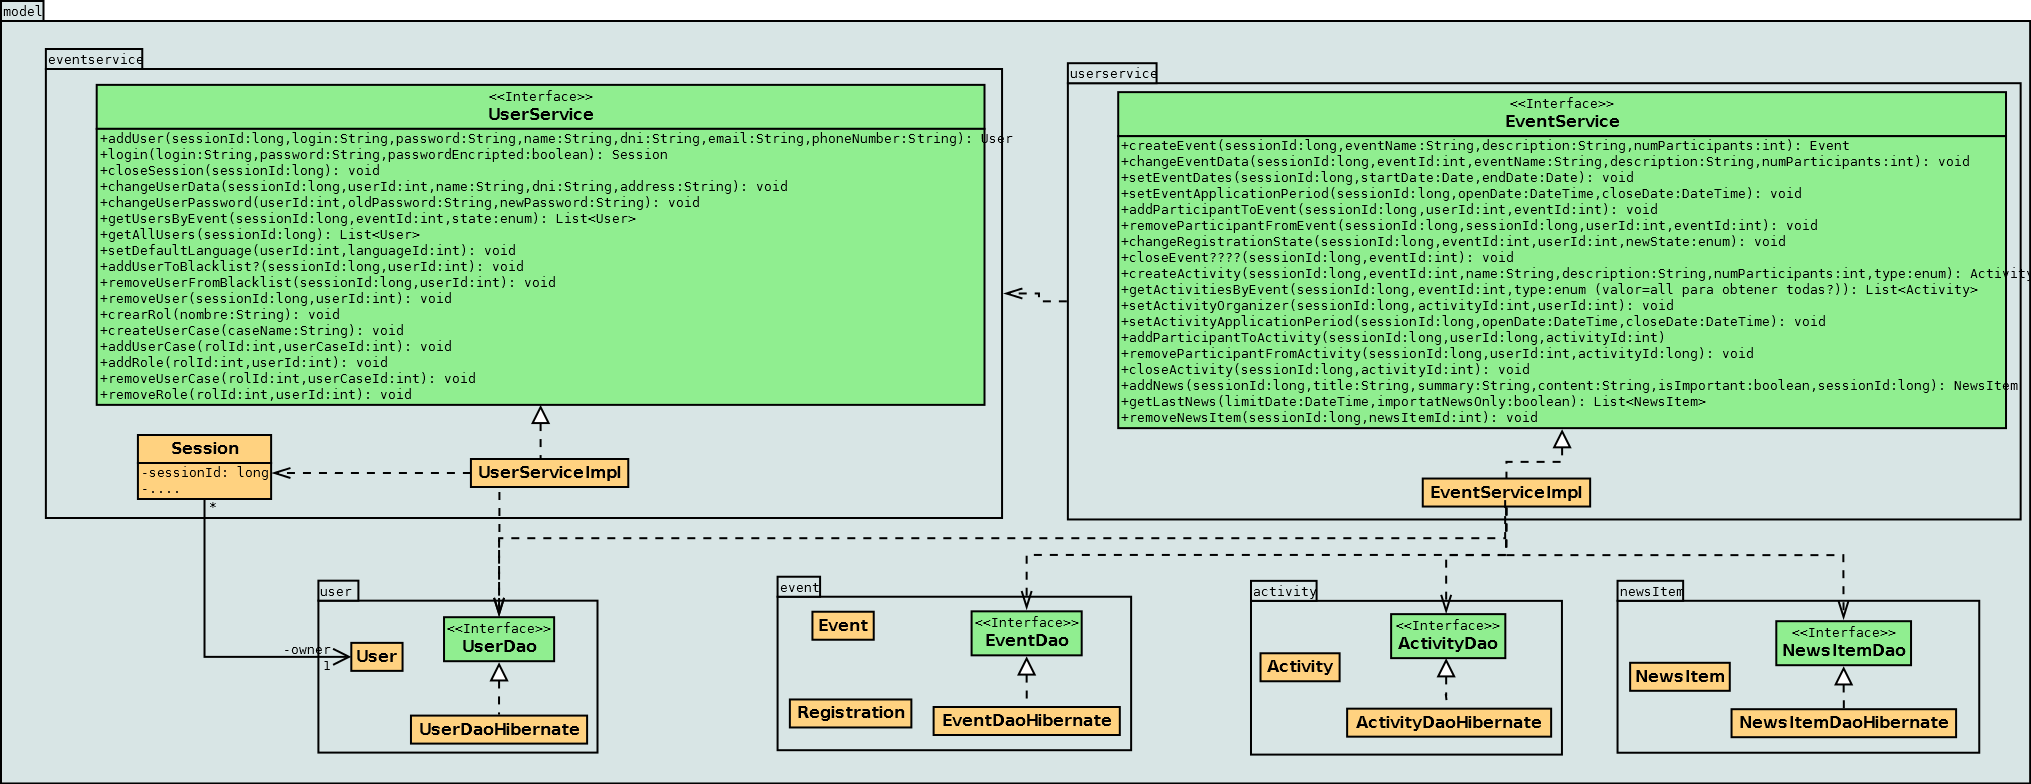
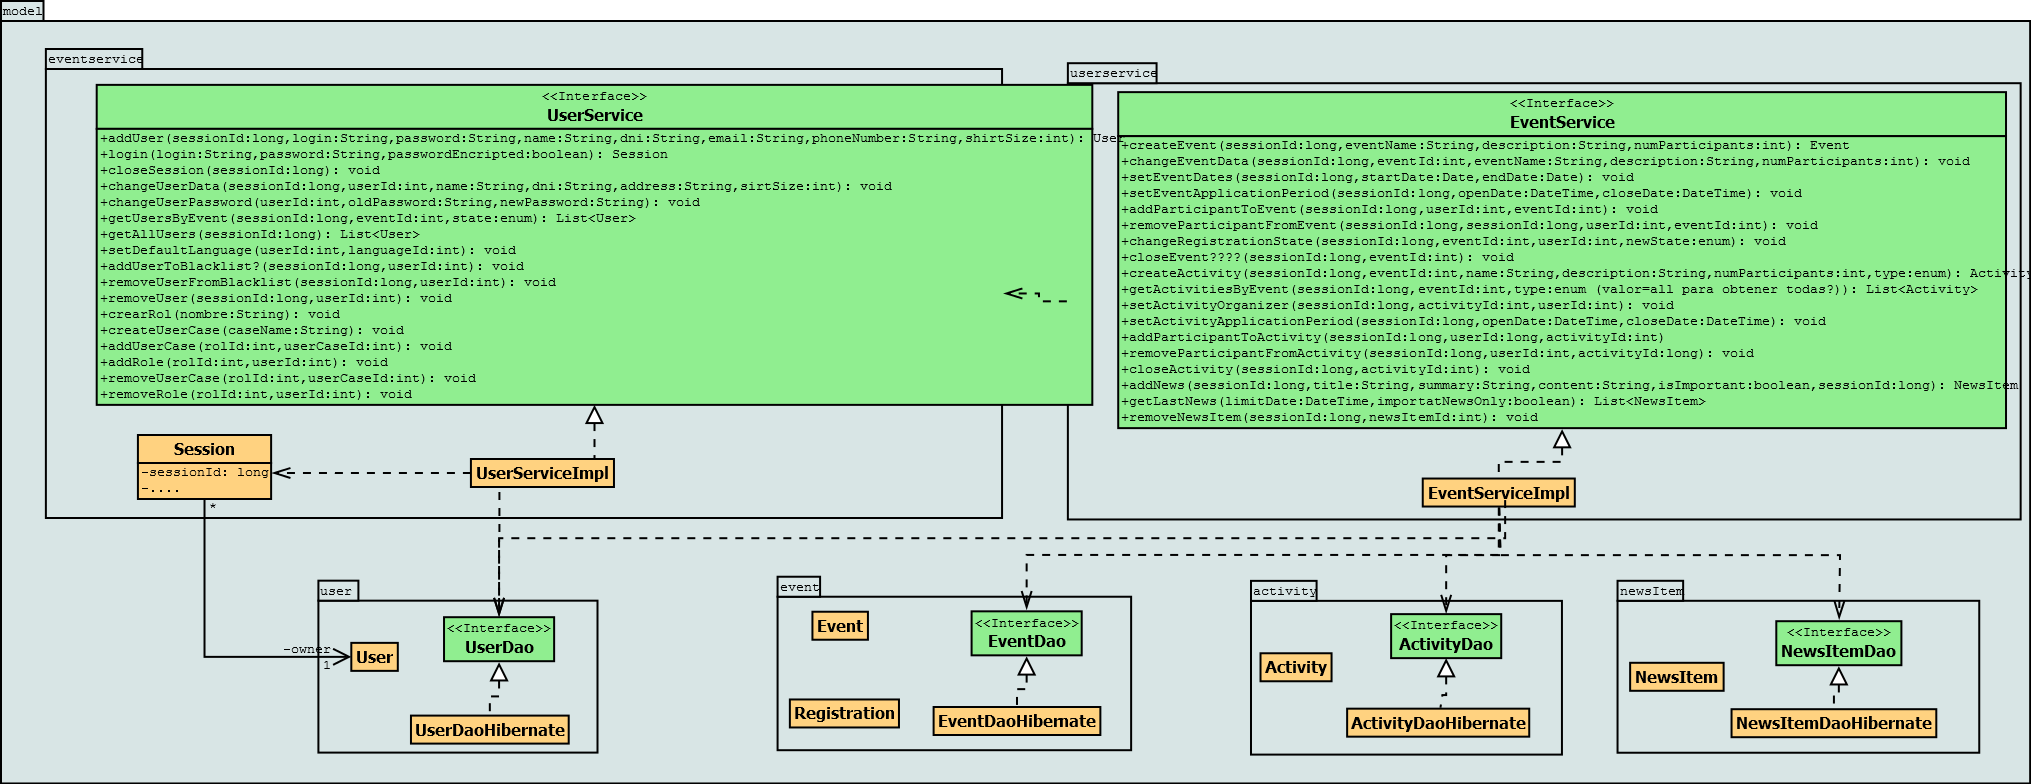
Adaptados ROLE, UserCase y User a la nueva nomenclatura de la base de datos.
He añadido también la talla de camiseta que se nos había olvidado (los
cambios están reflejados en el modelo).

AVISO -  He tocado el fichero User de Dani para hacer esta adaptación,
así que si puedes revisa que todo esté en orden.

diff --git a/src/main/java/es/ficonlan/web/backend/model/user/User.java b/src/main/java/es/ficonlan/web/backend/model/user/User.java
@@ -10,8 +10,10 @@ import javax.persistence.Id;
 import javax.persistence.ManyToMany;
 import javax.persistence.JoinTable;
 import javax.persistence.JoinColumn;
+import javax.persistence.SequenceGenerator;
 
 import es.ficonlan.web.backend.model.role.Role;
+import es.ficonlan.web.backend.model.activity.Activity;
 
 /**
  * @author Daniel Gómez Silva
@@ -30,10 +32,12 @@ public class User {
 	public String phoneNumber;
 	public boolean deleted;
 	public Set<Role> roles;
+	public Set<Activity> participation;
+	public int shirtSize ;
 	
 	public User(){};
 	
-	public User(String name, String login, String password, String dni, String email, String phoneNumber) {
+	public User(String name, String login, String password, String dni, String email, String phoneNumber, int shirtSize) {
 		this.name = name;
 		this.login = login;
 		this.password = password;
@@ -41,11 +45,13 @@ public class User {
 		this.email = email;
 		this.phoneNumber = phoneNumber;
 		this.deleted=false;
+		this.shirtSize = shirtSize;
 	}
 
+	@Column(name = "User_id")
+	@SequenceGenerator(name = "userIdGenerator", sequenceName = "userSeq")
 	@Id
-	@Column(name="id")
-	@GeneratedValue(strategy=GenerationType.IDENTITY)
+	@GeneratedValue(strategy = GenerationType.AUTO, generator = "userIdGenerator")
 	public int getUserId() {
 		return userId;
 	}
@@ -53,7 +59,7 @@ public class User {
 		this.userId = userId;
 	}
 	
-	@Column
+	@Column(name = "User_name")
 	public String getName() {
 		return name;
 	}
@@ -61,7 +67,7 @@ public class User {
 		this.name = name;
 	}
 	
-	@Column
+	@Column(name = "User_login")
 	public String getLogin() {
 		return login;
 	}
@@ -69,7 +75,7 @@ public class User {
 		this.login = login;
 	}
 	
-	@Column
+	@Column(name = "User_password")
 	public String getPassword() {
 		return password;
 	}
@@ -77,7 +83,7 @@ public class User {
 		this.password = password;
 	}
 	
-	@Column
+	@Column(name = "User_dni")
 	public String getDni() {
 		return dni;
 	}
@@ -85,7 +91,7 @@ public class User {
 		this.dni = dni;
 	}
 	
-	@Column
+	@Column(name = "User_email")
 	public String getEmail() {
 		return email;
 	}
@@ -93,7 +99,7 @@ public class User {
 		this.email = email;
 	}
 	
-	@Column(name="telf")
+	@Column(name="User_telf")
 	public String getPhoneNumber() {
 		return phoneNumber;
 	}
@@ -101,7 +107,7 @@ public class User {
 		this.phoneNumber = phoneNumber;
 	}
 	
-	@Column(name="checked")
+	@Column(name="User_checked")
 	public boolean isDeleted() {
 		return deleted;
 	}
@@ -110,13 +116,32 @@ public class User {
 	}
 	
 	@ManyToMany
-	@JoinTable (name = "mn_role_user", joinColumns = { @JoinColumn(name = "id_user") }, inverseJoinColumns = { @JoinColumn(name = "id_role") })
+	@JoinTable (name = "Role_User", joinColumns = { @JoinColumn(name = "Role_User_User_id") }, inverseJoinColumns = { @JoinColumn(name = "Role_User_Role_id") })
 	public Set<Role> getRoles() {
 		return roles;
 	}
 
 	public void setRoles(Set<Role> roles) {
 		this.roles = roles;
+	}
+	
+	@Column(name="User_shirtSize")
+	public void setSirtSize(int sirtSize) {
+		this.shirtSize = sirtSize;
+	}
+	
+	public int getSirtSize() {
+		return this.shirtSize;
+	}
+	
+	@ManyToMany
+	@JoinTable (name = "User_Activity", joinColumns = { @JoinColumn(name = "User_Activity_User_id") }, inverseJoinColumns = { @JoinColumn(name = "User_Activity_Activity_id") })
+	public Set<Activity> getParticipation() {
+		return participation;
+	}
+	
+	public void setParticipation(Set<Activity> participation) {
+		this.participation = participation;
 	}
 
 }

diff --git a/src/main/java/es/ficonlan/web/backend/Main.java b/src/main/java/es/ficonlan/web/backend/Main.java
@@ -23,9 +23,9 @@ public class Main {
 		}
 		
 		System.out.println("Test registrar usuario:");
-	    User u1 = userService.addUser(0, "Pepito", "pep01", "pass", "123456789Y", "pep@yopmail.com", "666666666");
+	    User u1 = userService.addUser(0, "Pepito", "pep01", "pass", "123456789Y", "pep@yopmail.com", "666666666", 1);
         System.out.println("Usuario "+ u1.getName()+" añadido.");
-	    User u2 = userService.addUser(0, "Pepito2", "pep02", "pass", "123456789Y", "pep@yopmail.com", "666666666");
+	    User u2 = userService.addUser(0, "Pepito2", "pep02", "pass", "123456789Y", "pep@yopmail.com", "666666666", 1);
         System.out.println("Usuario "+ u2.getName()+" añadido.");
         
         List<User> users = userService.getAllUsers(0);

diff --git a/src/main/java/es/ficonlan/web/backend/model/userservice/UserServiceImpl.java b/src/main/java/es/ficonlan/web/backend/model/userservice/UserServiceImpl.java
@@ -20,9 +20,9 @@ public class UserServiceImpl implements UserService {
 	private UserDao userDao;
 	
 	@Transactional
-	public User addUser(long sessionId, String name, String login, String password, String dni, String email, String phoneNumber){
+	public User addUser(long sessionId, String name, String login, String password, String dni, String email, String phoneNumber, int shirtSize){
 		//TODO: Comprobar permisoso con sessionId
-		User u = new User(name, login, password, dni, email, phoneNumber);
+		User u = new User(name, login, password, dni, email, phoneNumber, shirtSize);
 		userDao.save(u);
 		return u;
 	}

diff --git a/src/main/java/es/ficonlan/web/backend/model/userCase/UserCase.java b/src/main/java/es/ficonlan/web/backend/model/userCase/UserCase.java
@@ -26,7 +26,7 @@ public class UserCase {
 		this.userCaseName = name;
 	}
 	
-	@Column(name = "userCaseId")
+	@Column(name = "userCase_id")
 	@SequenceGenerator(name = "userCaseIdGenerator", sequenceName = "userCaseSeq")
 	@Id
 	@GeneratedValue(strategy = GenerationType.AUTO, generator = "userCaseIdGenerator")
@@ -39,7 +39,7 @@ public class UserCase {
 		this.userCaseId = newId;
 	}
 	
-	@Column(name = "userCaseName")
+	@Column(name = "userCase_name")
 	public String getUserCaseName()
 	{
 		return this.userCaseName;

diff --git a/src/main/java/es/ficonlan/web/backend/model/role/Role.java b/src/main/java/es/ficonlan/web/backend/model/role/Role.java
@@ -26,7 +26,7 @@ public class Role {
 		this.roleName = name;
 	}
 	
-	@Column(name = "roleId")
+	@Column(name = "Role_id")
 	@SequenceGenerator(name = "roleIdGenerator", sequenceName = "RoleSeq")
 	@Id
 	@GeneratedValue(strategy = GenerationType.AUTO, generator = "roleIdGenerator")
@@ -39,7 +39,7 @@ public class Role {
 		this.roleId = newId;
 	}
 	
-	@Column(name = "roleName")
+	@Column(name = "role_Name")
 	public String getRoleName()
 	{
 		return this.roleName;

diff --git a/src/main/java/es/ficonlan/web/backend/model/userservice/UserService.java b/src/main/java/es/ficonlan/web/backend/model/userservice/UserService.java
@@ -10,7 +10,7 @@ import es.ficonlan.web.backend.model.user.User;
  */
 public interface UserService {
 
-	public User addUser(long sessionId, String name, String login, String password, String dni, String email, String phoneNumber);
+	public User addUser(long sessionId, String name, String login, String password, String dni, String email, String phoneNumber, int shirtSize);
 	
 	public List<User> getAllUsers(long sessionId);
 	

diff --git a/src/main/java/es/ficonlan/web/backend/model/activity/Activity.java b/src/main/java/es/ficonlan/web/backend/model/activity/Activity.java
@@ -1,5 +1,8 @@
 package es.ficonlan.web.backend.model.activity;
 
+import javax.persistence.Entity;
+
+@Entity
 public class Activity {
 
 }
